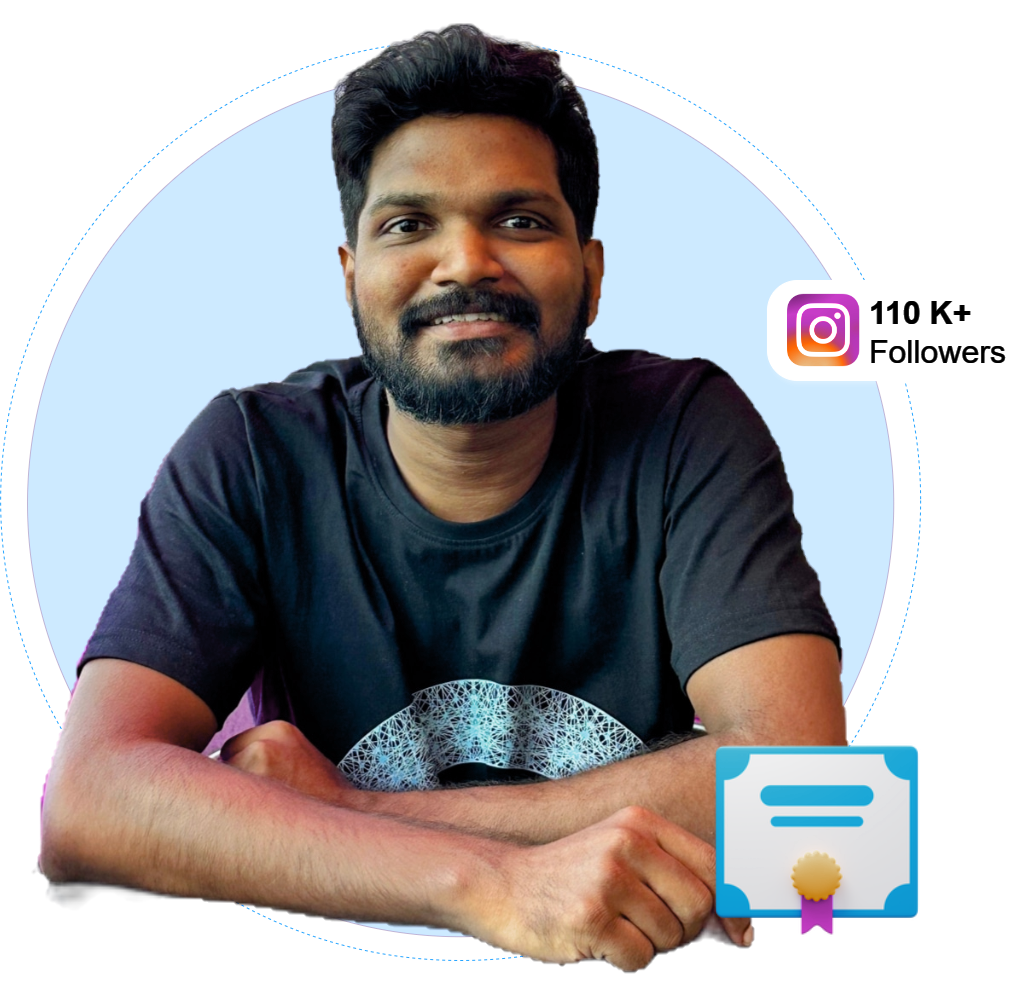
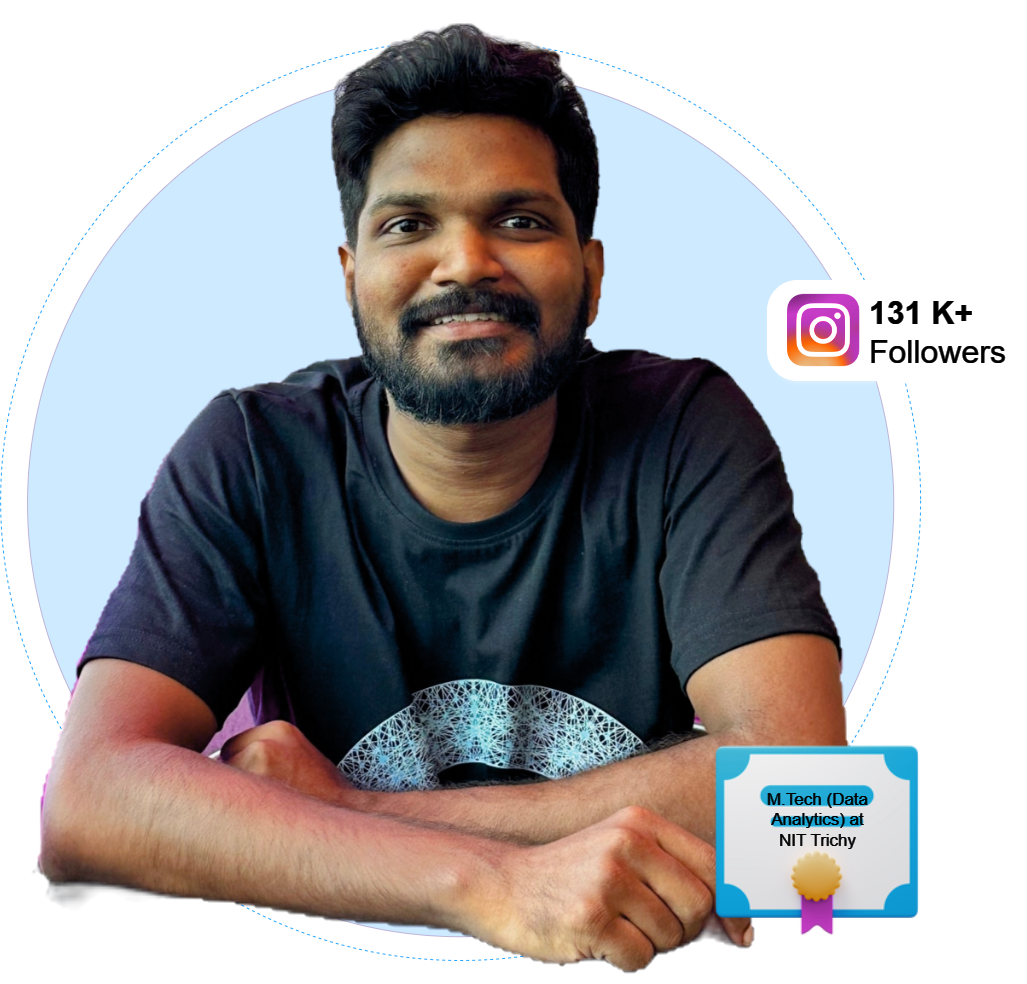
small changes

diff --git a/components/landingpage/courseoffering/OfferingList.tsx b/components/landingpage/courseoffering/OfferingList.tsx
@@ -28,7 +28,7 @@ export function OfferingList() {
                   Problem Solving
                 </h3>
                 <p className="mt-1 text-muted-foreground">
-                  100+ hours of Course video lectures. C++ fundamentals, data
+                  160+ hours of Course video lectures. C++ fundamentals, data
                   structures, and algorithms.
                 </p>
               </div>
@@ -41,7 +41,7 @@ export function OfferingList() {
                   300+ problems
                 </h3>
                 <p className="mt-1 text-muted-foreground">
-                  We will solve 300+ problems to help you master problem-solving
+                  Solve 300+ problems to master problem-solving
                   skills and prepare for high-paying tech careers.
                 </p>
               </div>
@@ -69,7 +69,7 @@ export function OfferingList() {
                   Regular Quizzs
                 </h3>
                 <p className="mt-1 text-muted-foreground">
-                  In this 6-month course, you’ll receive regular assignments and
+                  6-months of regular assignments and
                   quizzes to practice your skills and get feedback.
                 </p>
               </div>
@@ -93,7 +93,7 @@ export function OfferingList() {
                   Course Validity
                 </h3>
                 <p className="mt-1 text-muted-foreground">
-                  2 years of course access. This is Valid for 24 months.
+                  6 months course duration & 2 years of course access.
                 </p>
               </div>
             </div>
@@ -108,7 +108,7 @@ export function OfferingList() {
     // >
     //   <AccordionItem value="item-1">
     //     <AccordionTrigger className="hover:text-foreground hover:no-underline">
-    //       🎥 100+ hours of Course Content
+    //       🎥 160+ hours of Course Content
     //     </AccordionTrigger>
     //     <AccordionContent className="text-base">
     //       This course equips you with the essential skills for problem-solving:

diff --git a/components/landingpage/pricing/Pricing.tsx b/components/landingpage/pricing/Pricing.tsx
@@ -1,6 +1,6 @@
 import { CheckIcon, CircleCheck, MinusIcon } from "lucide-react";
 const includedFeatures = [
-  "100+ Hours of course content",
+  "160+ Hours of course content",
   "300+ Problems Solved",
   "Weekly 2 Live Classes",
   "Weekly 2 Live Problem solving session",
@@ -119,11 +119,11 @@ export default function Pricing() {
         <div className="mx-auto mt-16 max-w-2xl rounded-3xl ring-1 ring-gray-200 sm:mt-20 lg:mx-0 lg:flex lg:max-w-none">
           <div className="p-8 sm:p-10 lg:flex-auto">
             <h3 className="text-2xl font-bold tracking-tight text-gray-900 flex gap-4">
-              Lifetime membership
+              What you'll get
             </h3>
             <div className="mt-10 flex items-center gap-x-4">
               <h4 className="flex-none text-sm font-semibold leading-6 text-indigo-600">
-                What’s included
+                What's included
               </h4>
               <div className="h-px flex-auto bg-gray-100" />
             </div>
@@ -150,7 +150,7 @@ export default function Pricing() {
                 </p>
                 <p className="mt-6 flex items-baseline justify-center gap-x-2">
                   <span className="text-5xl font-bold tracking-tight text-gray-900">
-                    ₹6999
+                    ₹7499
                   </span>
                   <span className="text-sm font-semibold leading-6 tracking-wide text-gray-600">
                     INR
@@ -163,7 +163,7 @@ export default function Pricing() {
                   Get access
                 </a>
                 <p className="mt-6 text-xs leading-5 text-gray-600">
-                  Invoices and receipts available for easy company reimbursement
+                  You can also pay in installments through credit cards. :-)
                 </p>
               </div>
             </div>

diff --git a/components/landing/Mentor.tsx b/components/landing/Mentor.tsx
@@ -17,7 +17,7 @@ export default function Mentor() {
   const plugin = React.useRef(
     Autoplay({ delay: 2000, stopOnInteraction: true })
   );
-  const images = ["img.jpg", "img1.jpg", "img2.jpg", "img3.png", "img4.png"];
+  const images = ["img.jpg", "img2.jpg", "img3.png", "img4.png"];
 
   return (
     // <div className="flex h-full justify-center items-center">
@@ -162,14 +162,14 @@ export default function Mentor() {
                 alt="linkedin"
               />
               <div className="font-bold text-xl">
-                <NumberTicker value={121} />
+                <NumberTicker value={131} />
                 K+
               </div>
             </Card>
             <Card className="flex flex-col justify-center items-center w-1/4 p-2">
               <Image src="/youtube.png" width={50} height={50} alt="linkedin" />
               <div className="font-bold text-xl">
-                <NumberTicker value={12} />
+                <NumberTicker value={2} />
                 K+
               </div>
             </Card>

diff --git a/app/landing/page.tsx b/app/landing/page.tsx
@@ -49,8 +49,8 @@ export default function LandingPage() {
             </div>
             {/* <div className="flex justify-between items-center w-full"> */}
             <div className="flex text-lg gap-1 w-full p-2 md:text-2xl md:justify-center">
-              <span className="line-through">₹12,000</span>
-              <span className="underline">₹6,999</span>
+              <span className="line-through">₹14,999</span>
+              <span className="underline">₹7,499</span>
             </div>
             <button className="inline-flex h-16 md:w-3/6 w-full animate-shimmer items-center justify-center rounded-md border border-slate-800 bg-orange-500 bg-[length:200%_100%] px-4 font-semibold text-white text-xl transition-colors focus:outline-none focus:ring-2">
               Enroll Now

diff --git a/components/custom/HeroHighlightDemo.tsx b/components/custom/HeroHighlightDemo.tsx
@@ -36,11 +36,11 @@ export function HeroHighlightDemo() {
                   </div>
                   <div className="flex gap-2 md:gap-5 font-semibold items-center text-start">
                     <BookOpenCheck />
-                    <p>50 Live Sessions With Vasanta for 6 Months</p>
+                    <p>100+ Live Sessions With Vasanta for 6 Months</p>
                   </div>
                   <div className="flex gap-2 md:gap-5 font-semibold items-center text-start">
                     <Brain />
-                    <p>Problem Solving and Live doubts sessions</p>
+                    <p>Live Problem Solving and Doubts Sessions</p>
                   </div>
                 </div>
               </div>

diff --git a/components/Bonuses.tsx b/components/Bonuses.tsx
@@ -77,9 +77,9 @@ export function Bonuses() {
             viewBox="0 0 24 24"
             fill="none"
             stroke="currentColor"
-            stroke-width="2"
-            stroke-linecap="round"
-            stroke-linejoin="round"
+            strokeWidth="2"
+            strokeLinecap="round"
+            strokeLinejoin="round"
             className="lucide lucide-lock-keyhole-open"
           >
             <circle cx="12" cy="16" r="1" />
